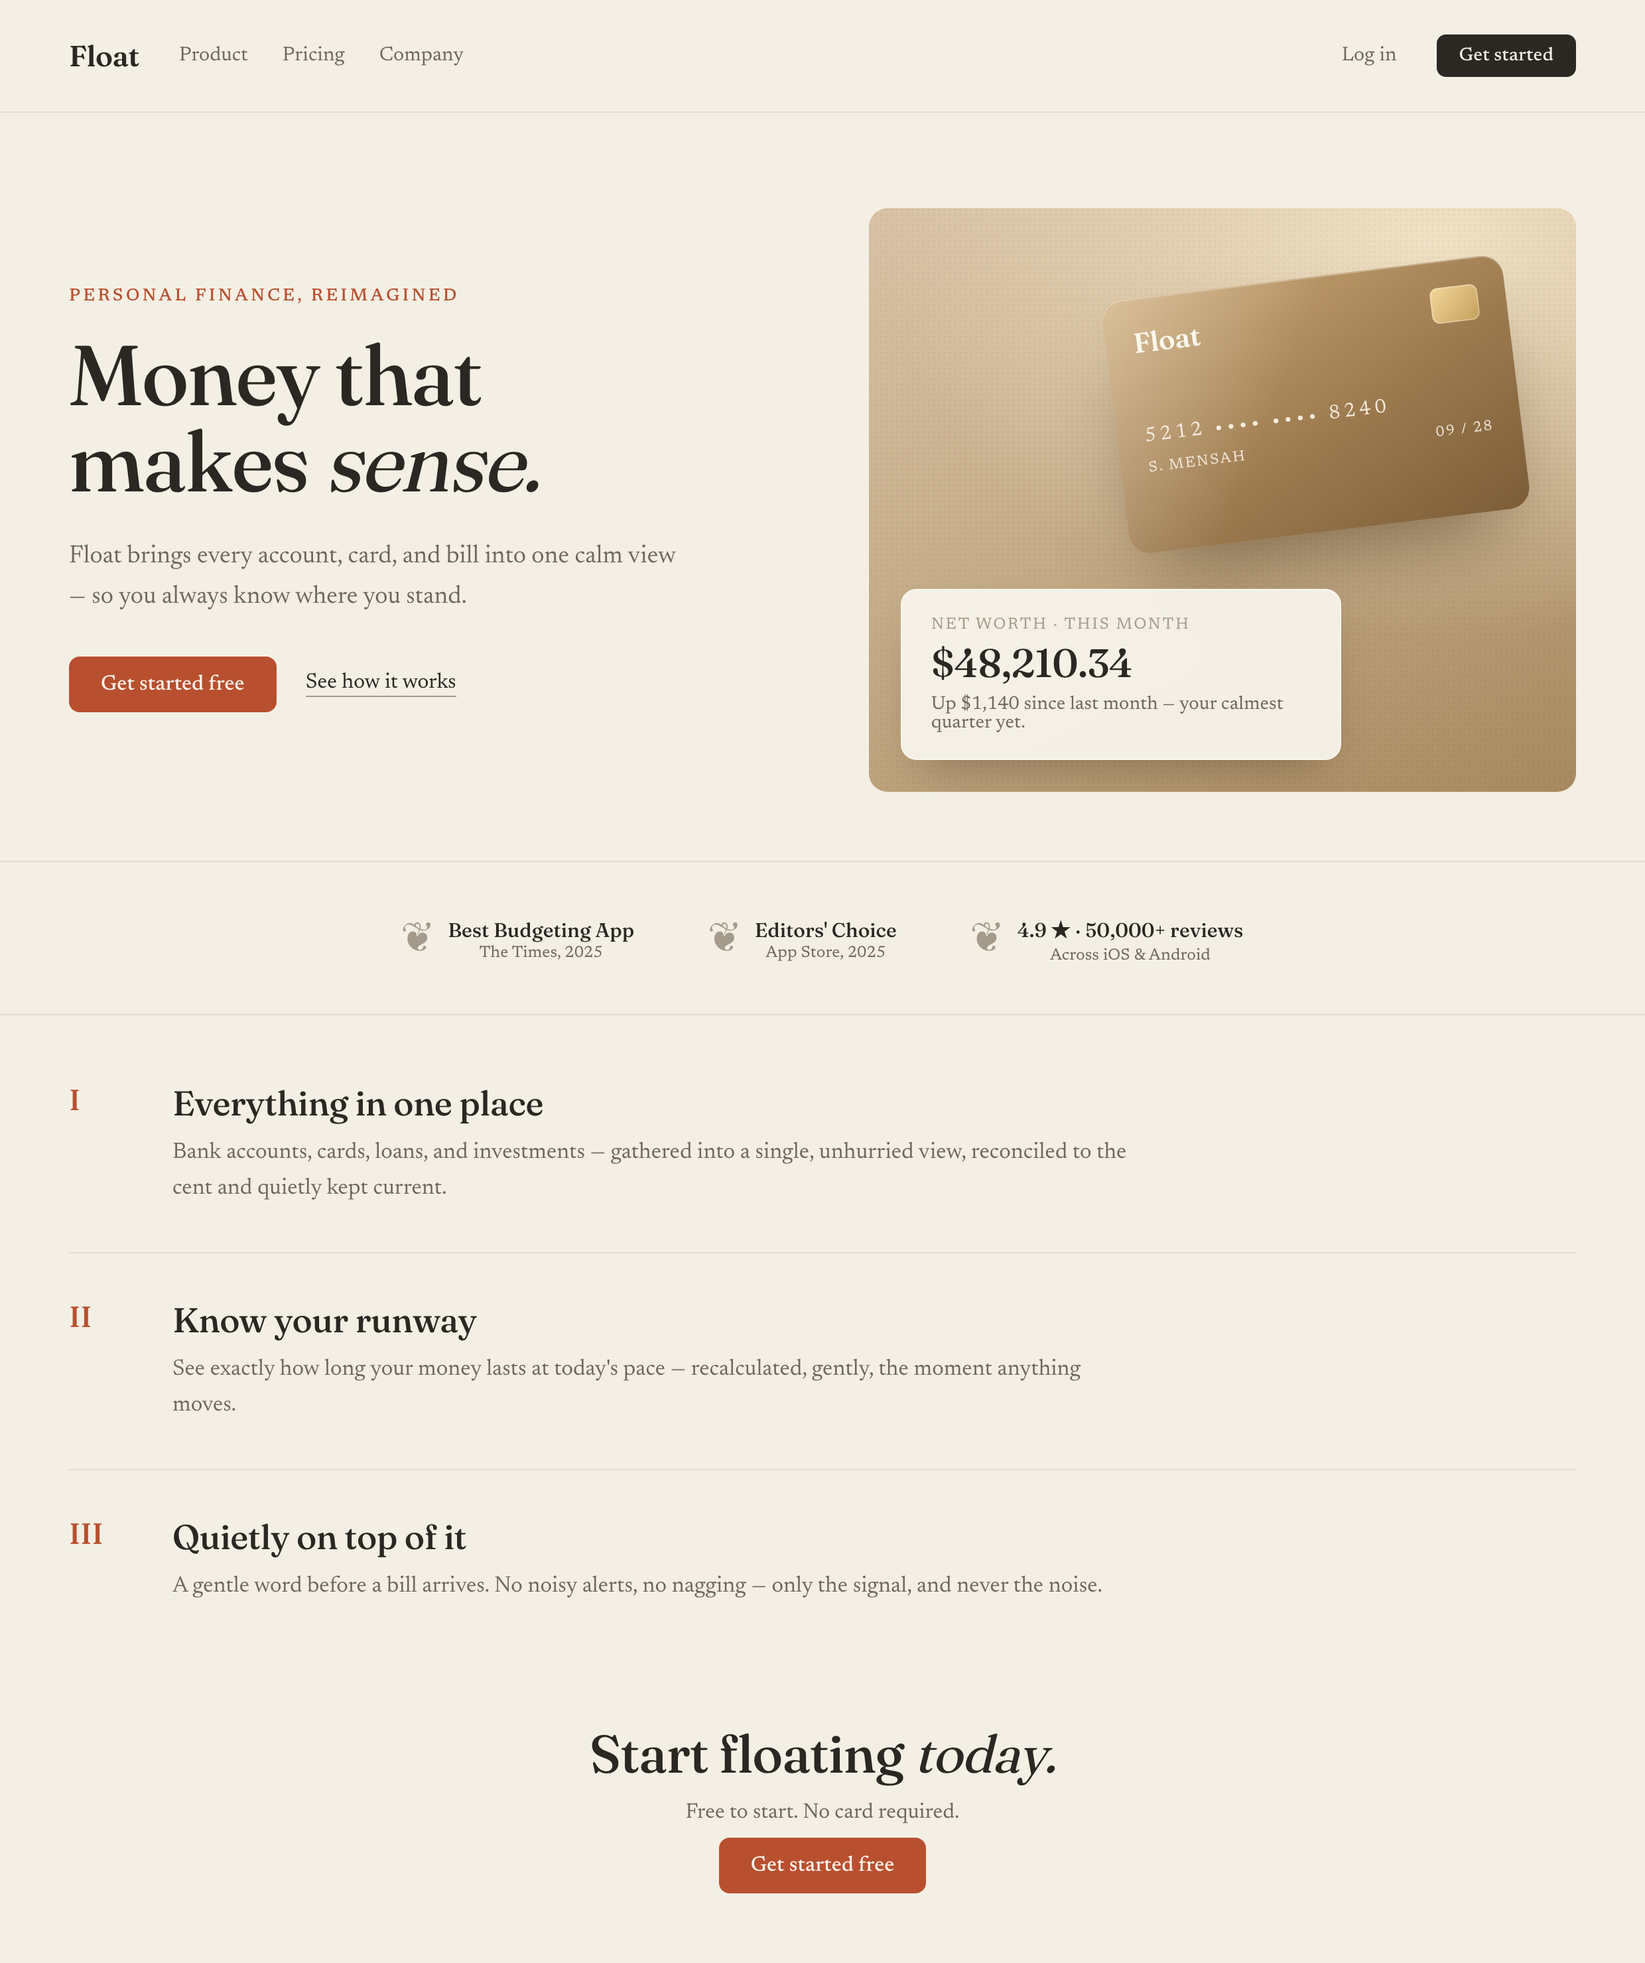
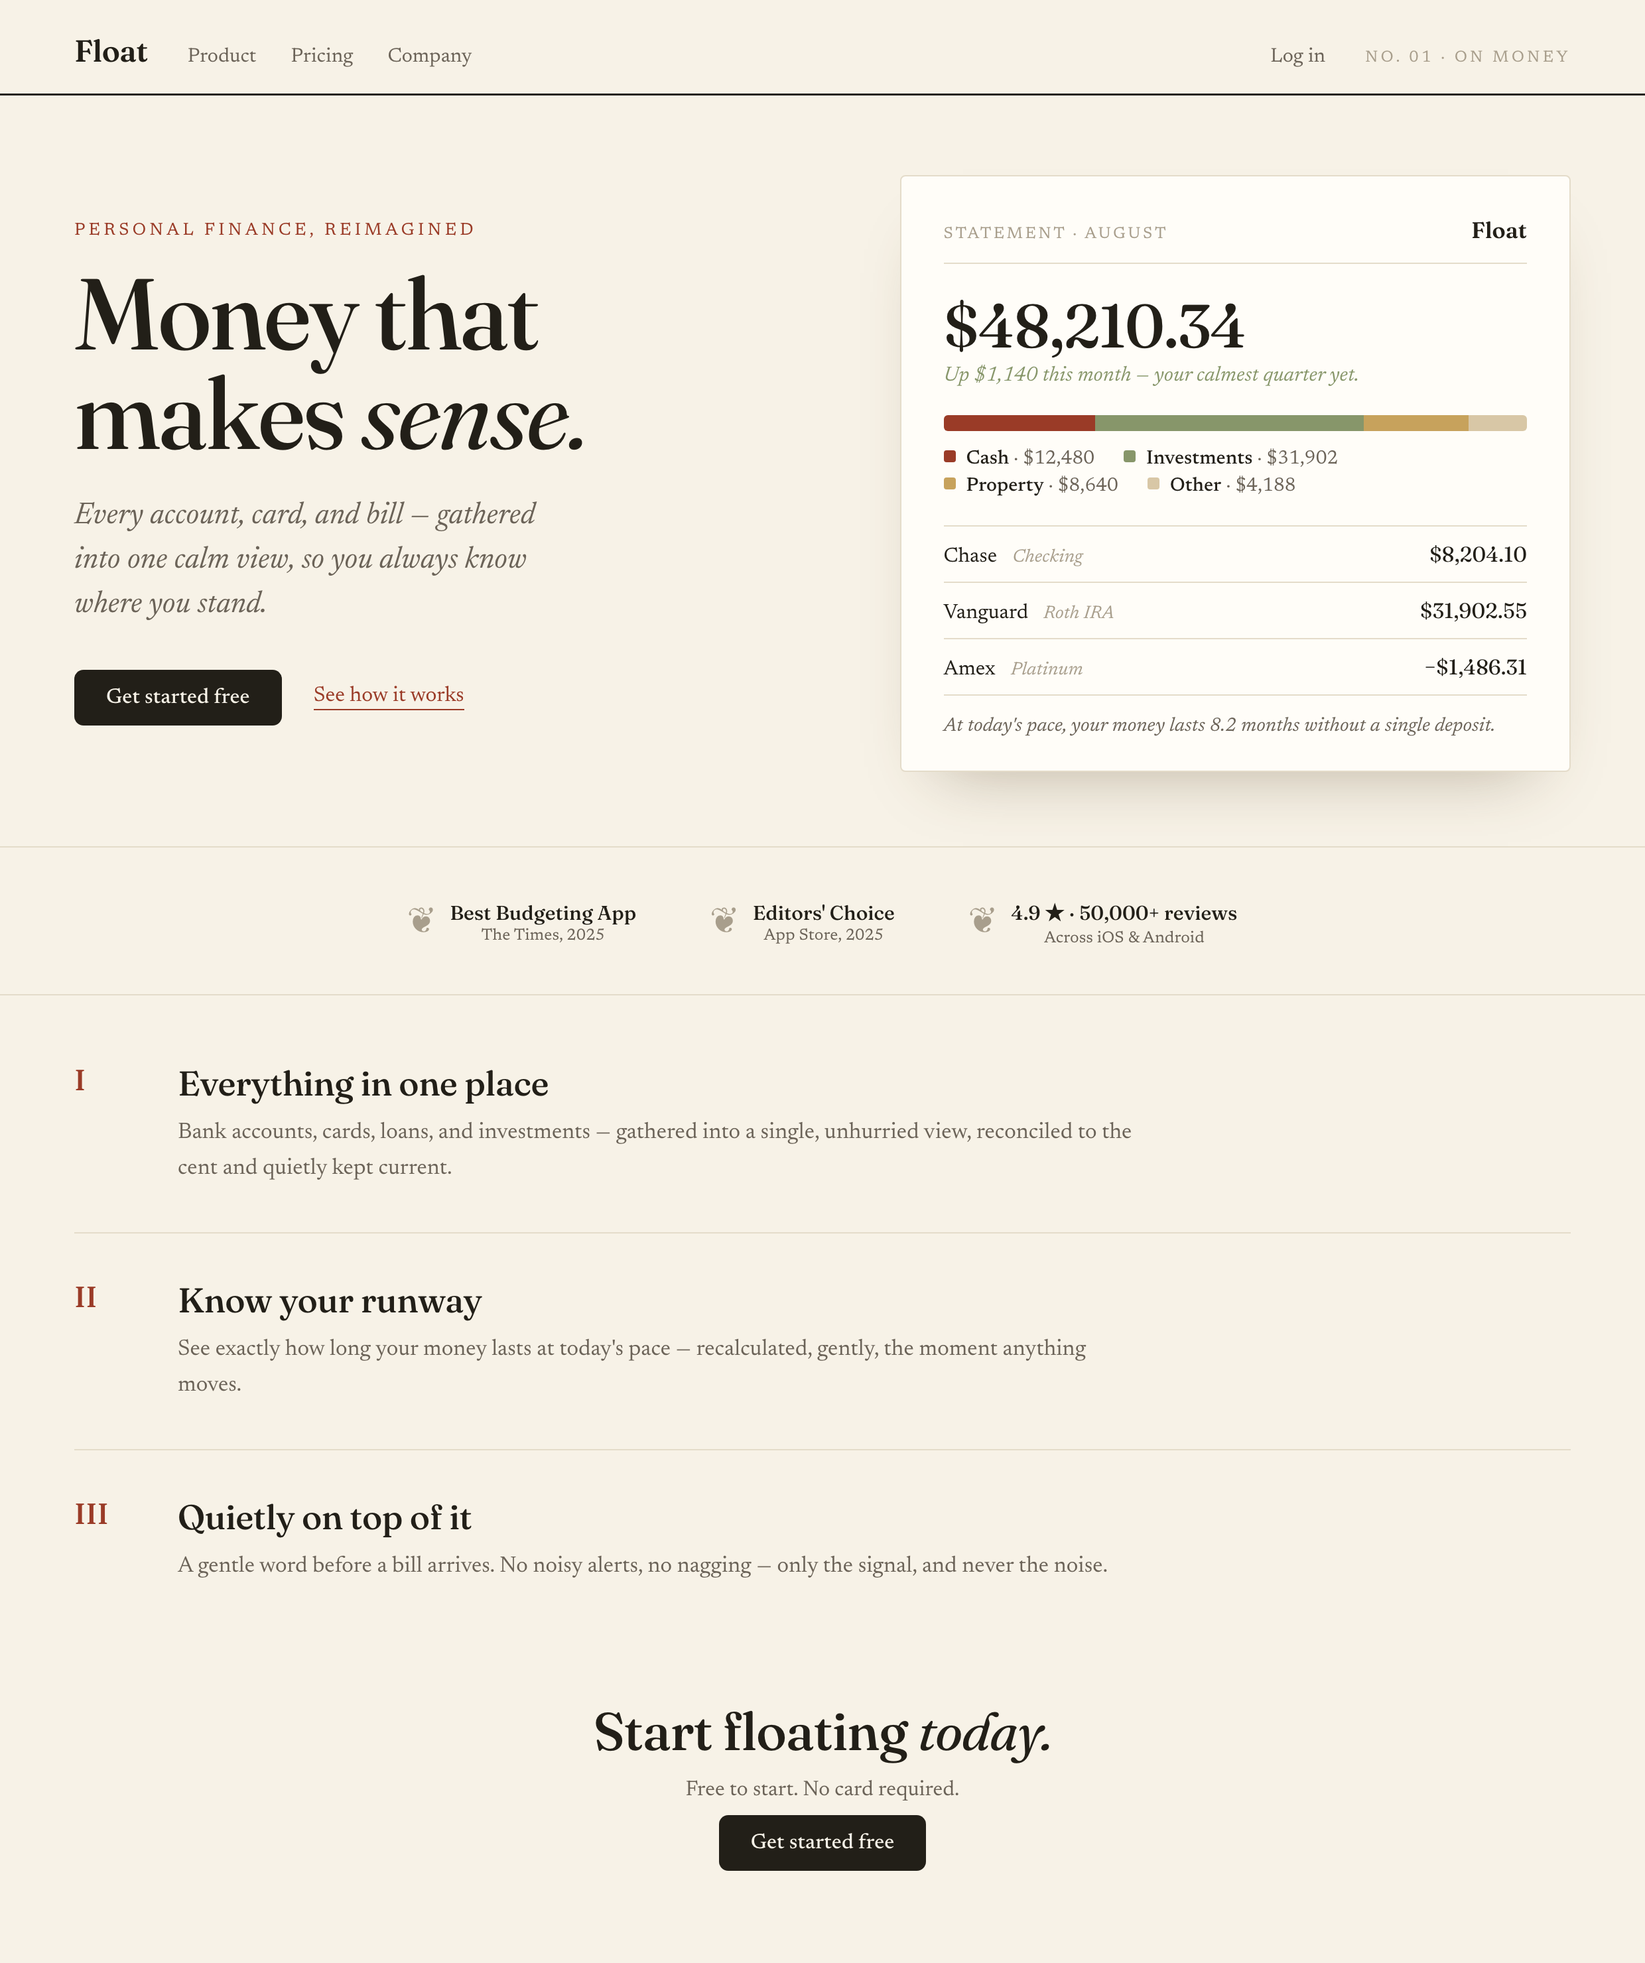
registers: warm-editorial v3 — replace fabricated illustration with a curated printed-statement object + stronger editorial type (finding: warm voice can't be faked with CSS illustration)

diff --git a/registers/float-warm-editorial.html b/registers/float-warm-editorial.html
@@ -6,28 +6,29 @@
 <title>Float · warm-editorial voice</title>
 <link rel="preconnect" href="https://fonts.googleapis.com" />
 <link rel="preconnect" href="https://fonts.gstatic.com" crossorigin />
-<link href="https://fonts.googleapis.com/css2?family=Fraunces:opsz,wght@9..144,400;9..144,500;9..144,600&family=Newsreader:opsz,wght@6..72,400;6..72,500&display=swap" rel="stylesheet" />
+<link href="https://fonts.googleapis.com/css2?family=Fraunces:ital,opsz,wght@0,9..144,400;0,9..144,500;0,9..144,600;1,9..144,400;1,9..144,500&family=Newsreader:ital,opsz,wght@0,6..72,400;0,6..72,500;1,6..72,400&display=swap" rel="stylesheet" />
 <style>
   /* ============================================================
-     REGISTER: WARM-EDITORIAL — same Float content. Voice grounded in
-     a real warm fintech (Monarch): a surface that READS. §3 type =
-     an all-serif pairing (Fraunces display + Newsreader body), modest
-     hero size, real reading rhythm. §4 color = warm CREAM paper (never
-     stark white), warm-tinted neutrals, ONE scarce terracotta accent.
-     §6 depth = RULES not shadows, a warm photographic panel + a soft
-     frosted card (the one place a shadow is earned), low radius. The
-     laurels/awards strip = the editorial trust signal. Calm, roomy,
-     left-aligned and asymmetric. The opposite energy of the bold voice.
+     REGISTER: WARM-EDITORIAL — same Float content. The hard register:
+     warmth that READS. KEY FINDING (from gate iterations): this is the
+     one voice you cannot fake with a fabricated illustration — botanical
+     line-art, muddy gradient panels and stock card-stills all read as
+     slop. The honest visual is EITHER real photography OR a genuine
+     product surface treated as a curated object. Here: an elegant printed
+     STATEMENT card (not a dashboard — that's cool-technical's job), so
+     the voice stays distinct. Editorial type leads (Fraunces, mixed
+     roman/italic, real scale + reading rhythm); warmth from bright paper
+     + ink + ONE oxblood accent; depth from RULES, not shadows.
      ============================================================ */
   :root {
-    --paper: #f4efe4;
-    --card:  #fbf8f1;
-    --ink:   #2b2722;
-    --muted: #6f675c;
-    --faint: #a59b8c;
-    --rule:  #e4dccb;
-    --clay:  #b8502f;          /* the one scarce accent */
-    --photo1:#d9c3a6; --photo2:#c2a883; --photo3:#a8895f;
+    --paper: #f7f2e7;
+    --card:  #fffdf8;
+    --ink:   #221f18;
+    --muted: #6b6358;
+    --faint: #a89e8c;
+    --rule:  #e4dcca;
+    --clay:  #9a3b27;          /* the one scarce accent (oxblood) */
+    --sage:  #87966a; --gold:#c7a25c; --sand:#d8c7a6;
     --disp:  "Fraunces", Georgia, serif;
     --body:  "Newsreader", Georgia, serif;
   }
@@ -35,54 +36,55 @@
   body { font-family: var(--body); background: var(--paper); color: var(--ink); -webkit-font-smoothing: antialiased; }
   .page { width: 1240px; height: 1480px; overflow: hidden; position: relative; }
 
-  .nav { display: flex; align-items: center; gap: 30px; padding: 26px 52px; border-bottom: 1px solid var(--rule); }
-  .brand { font-family: var(--disp); font-size: 22px; font-weight: 600; letter-spacing: -.01em; }
+  /* masthead nav */
+  .nav { display: flex; align-items: baseline; gap: 30px; padding: 24px 56px 18px; border-bottom: 1.5px solid var(--ink); }
+  .brand { font-family: var(--disp); font-size: 23px; font-weight: 600; letter-spacing: -.01em; }
   .nav .links { display: flex; gap: 26px; font-size: 15px; color: var(--muted); }
   .nav .sp { flex: 1; }
   .nav .login { font-size: 15px; color: var(--muted); }
-  .nav .cta { font-size: 14px; font-weight: 500; padding: 9px 17px; border-radius: 7px; background: var(--ink); color: var(--paper); }
+  .nav .iss { font-size: 12px; letter-spacing: .18em; text-transform: uppercase; color: var(--faint); }
 
-  /* hero — asymmetric: editorial text left, warm photographic panel right */
-  .hero { display: grid; grid-template-columns: 1.02fr .98fr; gap: 48px; padding: 72px 52px 0; align-items: center; }
-  .lede .kicker { font-size: 13px; letter-spacing: .16em; text-transform: uppercase; color: var(--clay); font-family: var(--body); font-weight: 500; }
-  h1 { font-family: var(--disp); font-size: 64px; line-height: 1.02; letter-spacing: -.015em; font-weight: 500; margin: 20px 0 0; }
+  /* hero — editorial type left, statement object right */
+  .hero { display: grid; grid-template-columns: 1.06fr .94fr; gap: 52px; padding: 60px 56px 0; align-items: center; }
+  .kicker { font-size: 13px; letter-spacing: .2em; text-transform: uppercase; color: var(--clay); }
+  h1 { font-family: var(--disp); font-size: 76px; line-height: .99; letter-spacing: -.02em; font-weight: 500; margin: 18px 0 0; }
   h1 em { font-style: italic; font-weight: 400; }
-  .sub { max-width: 460px; font-size: 19px; line-height: 1.6; color: var(--muted); margin: 24px 0 0; }
-  .actions { display: flex; align-items: center; gap: 22px; margin: 30px 0 0; }
-  .btn-primary { font-family: var(--body); font-size: 16px; font-weight: 500; padding: 13px 24px; border-radius: 8px; background: var(--clay); color: #fff7f0; }
-  .link { font-size: 16px; color: var(--ink); border-bottom: 1px solid var(--faint); padding-bottom: 2px; }
+  .standfirst { font-family: var(--body); font-style: italic; font-size: 23px; line-height: 1.45; color: var(--muted); max-width: 30ch; margin: 24px 0 0; }
+  .actions { display: flex; align-items: center; gap: 24px; margin: 32px 0 0; }
+  .btn { font-family: var(--body); font-size: 16px; font-weight: 500; padding: 13px 24px; border-radius: 7px; background: var(--ink); color: var(--paper); }
+  .lnk { font-size: 16px; color: var(--clay); border-bottom: 1px solid currentColor; padding-bottom: 2px; }
 
-  /* warm scene panel: a tangible Float card still-life + frosted stat */
-  .photo { position: relative; height: 440px; border-radius: 14px; overflow: hidden;
-    background:
-      radial-gradient(150% 130% at 80% 6%, #f1e3c6, rgba(241,227,198,0) 52%),
-      linear-gradient(155deg, var(--photo1), var(--photo2) 55%, var(--photo3)); }
-  .photo .grain { position: absolute; inset: 0; opacity: .5; mix-blend-mode: multiply;
-    background-image: radial-gradient(circle at 1px 1px, rgba(120,90,50,.10) 1px, transparent 0); background-size: 4px 4px; }
-  .fcard { position: absolute; right: 44px; top: 52px; width: 304px; height: 192px; border-radius: 16px; transform: rotate(-7deg);
-    background: linear-gradient(150deg, #cdaa78, #9c7a4f 58%, #7c5d37); color: #fdf6ea; padding: 20px 21px;
-    box-shadow: 0 34px 64px -22px rgba(70,48,24,.6), inset 0 1px 0 rgba(255,255,255,.28); }
-  .fcard .sheen { position: absolute; inset: 0; border-radius: 16px; background: linear-gradient(118deg, rgba(255,255,255,.26), rgba(255,255,255,0) 42%); pointer-events: none; }
-  .fcard .ct { display: flex; align-items: center; justify-content: space-between; }
-  .fcard .wm { font-family: var(--disp); font-size: 21px; font-weight: 600; letter-spacing: -.01em; }
-  .fcard .chip { width: 36px; height: 27px; border-radius: 6px; background: linear-gradient(135deg,#f3d79a,#c49f5c); box-shadow: inset 0 0 0 1px rgba(255,255,255,.3); }
-  .fcard .num { font-family: var(--body); letter-spacing: .2em; font-size: 15px; margin-top: 50px; opacity: .92; }
-  .fcard .cb { display: flex; justify-content: space-between; font-size: 11px; letter-spacing: .1em; text-transform: uppercase; opacity: .85; margin-top: 11px; }
-  .frost { position: absolute; left: 24px; bottom: 24px; width: 332px; background: rgba(251,248,241,.9); backdrop-filter: blur(7px); border: 1px solid rgba(255,255,255,.55); border-radius: 12px; padding: 20px 22px; box-shadow: 0 16px 36px -16px rgba(60,45,30,.45); }
-  .frost .fl { font-size: 12px; letter-spacing: .1em; text-transform: uppercase; color: var(--faint); }
-  .frost .fv { font-family: var(--disp); font-size: 30px; font-weight: 500; letter-spacing: -.01em; margin-top: 4px; }
-  .frost .fd { font-size: 14px; color: var(--muted); margin-top: 6px; }
+  /* the statement object — a curated printed statement, not a dashboard */
+  .statement { background: var(--card); border: 1px solid var(--rule); border-radius: 4px; padding: 30px 32px 26px; box-shadow: 0 26px 50px -30px rgba(80,60,30,.4); }
+  .st-head { display: flex; align-items: baseline; justify-content: space-between; border-bottom: 1px solid var(--rule); padding-bottom: 14px; }
+  .st-head .lab { font-size: 12px; letter-spacing: .14em; text-transform: uppercase; color: var(--faint); }
+  .st-head .mk { font-family: var(--disp); font-size: 17px; font-weight: 600; }
+  .st-nw { font-family: var(--disp); font-size: 46px; font-weight: 500; letter-spacing: -.015em; margin: 18px 0 2px; }
+  .st-up { font-style: italic; font-size: 15.5px; color: var(--sage); }
+  .alloc { margin: 22px 0 0; }
+  .alloc .bar { display: flex; height: 12px; border-radius: 3px; overflow: hidden; }
+  .alloc .bar i { display: block; height: 100%; }
+  .alloc .leg { display: flex; flex-wrap: wrap; gap: 6px 22px; margin-top: 14px; }
+  .alloc .leg div { font-size: 14.5px; color: var(--muted); }
+  .alloc .leg .sw { display: inline-block; width: 9px; height: 9px; border-radius: 2px; margin-right: 8px; vertical-align: 1px; }
+  .alloc .leg b { font-family: var(--body); font-weight: 500; color: var(--ink); }
+  .rows { margin: 22px 0 0; border-top: 1px solid var(--rule); }
+  .rows .r { display: flex; align-items: baseline; justify-content: space-between; padding: 11px 0; border-bottom: 1px solid var(--rule); }
+  .rows .r .n { font-size: 15.5px; color: var(--ink); }
+  .rows .r .n small { color: var(--faint); font-style: italic; font-size: 13.5px; margin-left: 8px; }
+  .rows .r .a { font-family: var(--disp); font-size: 16px; font-variant-numeric: tabular-nums; }
+  .st-foot { font-style: italic; font-size: 14.5px; color: var(--muted); margin-top: 16px; }
 
   /* laurels / awards strip */
-  .laurels { display: flex; justify-content: center; gap: 56px; padding: 40px 0 38px; margin-top: 52px; border-top: 1px solid var(--rule); border-bottom: 1px solid var(--rule); }
+  .laurels { display: flex; justify-content: center; gap: 56px; padding: 38px 0 36px; margin-top: 56px; border-top: 1px solid var(--rule); border-bottom: 1px solid var(--rule); }
   .award { display: flex; align-items: center; gap: 12px; }
-  .award .lf { color: var(--faint); font-size: 30px; }
+  .award .lf { color: var(--faint); font-size: 26px; }
   .award .at { text-align: center; }
   .award .a1 { font-family: var(--disp); font-size: 15px; font-weight: 500; }
   .award .a2 { font-size: 12px; color: var(--muted); margin-top: 2px; }
 
   /* features — calm serif rhythm, rules between */
-  .band { padding: 16px 52px 0; }
+  .band { padding: 16px 56px 0; }
   .feat { display: grid; grid-template-columns: 56px 1fr; gap: 22px; padding: 34px 0; border-bottom: 1px solid var(--rule); }
   .feat:last-child { border-bottom: none; }
   .feat .num { font-family: var(--disp); font-size: 22px; color: var(--clay); font-weight: 500; }
@@ -90,7 +92,7 @@
   .feat p { font-size: 17px; line-height: 1.6; color: var(--muted); max-width: 720px; }
 
   /* closing */
-  .closing { text-align: center; padding: 54px 0 0; }
+  .closing { text-align: center; padding: 52px 0 0; }
   .closing h2 { font-family: var(--disp); font-size: 40px; font-weight: 500; letter-spacing: -.015em; }
   .closing em { font-style: italic; font-weight: 400; }
   .closing .sub2 { font-size: 16px; color: var(--muted); margin: 12px 0 24px; }
@@ -103,32 +105,41 @@
       <div class="links"><span>Product</span><span>Pricing</span><span>Company</span></div>
       <span class="sp"></span>
       <span class="login">Log in</span>
-      <span class="cta">Get started</span>
+      <span class="iss">No. 01 · On Money</span>
     </div>
 
     <div class="hero">
       <div class="lede">
         <div class="kicker">Personal finance, reimagined</div>
         <h1>Money that<br/>makes <em>sense.</em></h1>
-        <p class="sub">Float brings every account, card, and bill into one calm view — so you always know where you stand.</p>
+        <p class="standfirst">Every account, card, and bill — gathered into one calm view, so you always know where you stand.</p>
         <div class="actions">
-          <span class="btn-primary">Get started free</span>
-          <span class="link">See how it works</span>
+          <span class="btn">Get started free</span>
+          <span class="lnk">See how it works</span>
         </div>
       </div>
-      <div class="photo">
-        <div class="grain"></div>
-        <div class="fcard">
-          <div class="sheen"></div>
-          <div class="ct"><span class="wm">Float</span><span class="chip"></span></div>
-          <div class="num">5212 •••• •••• 8240</div>
-          <div class="cb"><span>S. Mensah</span><span>09 / 28</span></div>
+
+      <div class="statement">
+        <div class="st-head"><span class="lab">Statement · August</span><span class="mk">Float</span></div>
+        <div class="st-nw">$48,210.34</div>
+        <div class="st-up">Up $1,140 this month — your calmest quarter yet.</div>
+        <div class="alloc">
+          <div class="bar">
+            <i style="width:26%;background:var(--clay)"></i><i style="width:46%;background:var(--sage)"></i><i style="width:18%;background:var(--gold)"></i><i style="width:10%;background:var(--sand)"></i>
+          </div>
+          <div class="leg">
+            <div><span class="sw" style="background:var(--clay)"></span><b>Cash</b> · $12,480</div>
+            <div><span class="sw" style="background:var(--sage)"></span><b>Investments</b> · $31,902</div>
+            <div><span class="sw" style="background:var(--gold)"></span><b>Property</b> · $8,640</div>
+            <div><span class="sw" style="background:var(--sand)"></span><b>Other</b> · $4,188</div>
+          </div>
         </div>
-        <div class="frost">
-          <div class="fl">Net worth · this month</div>
-          <div class="fv">$48,210.34</div>
-          <div class="fd">Up $1,140 since last month — your calmest quarter yet.</div>
+        <div class="rows">
+          <div class="r"><span class="n">Chase <small>Checking</small></span><span class="a">$8,204.10</span></div>
+          <div class="r"><span class="n">Vanguard <small>Roth IRA</small></span><span class="a">$31,902.55</span></div>
+          <div class="r"><span class="n">Amex <small>Platinum</small></span><span class="a">−$1,486.31</span></div>
         </div>
+        <div class="st-foot">At today's pace, your money lasts <em>8.2 months</em> without a single deposit.</div>
       </div>
     </div>
 
@@ -147,7 +158,7 @@
     <div class="closing">
       <h2>Start floating <em>today.</em></h2>
       <div class="sub2">Free to start. No card required.</div>
-      <span class="btn-primary">Get started free</span>
+      <span class="btn">Get started free</span>
     </div>
   </div>
 </body>
